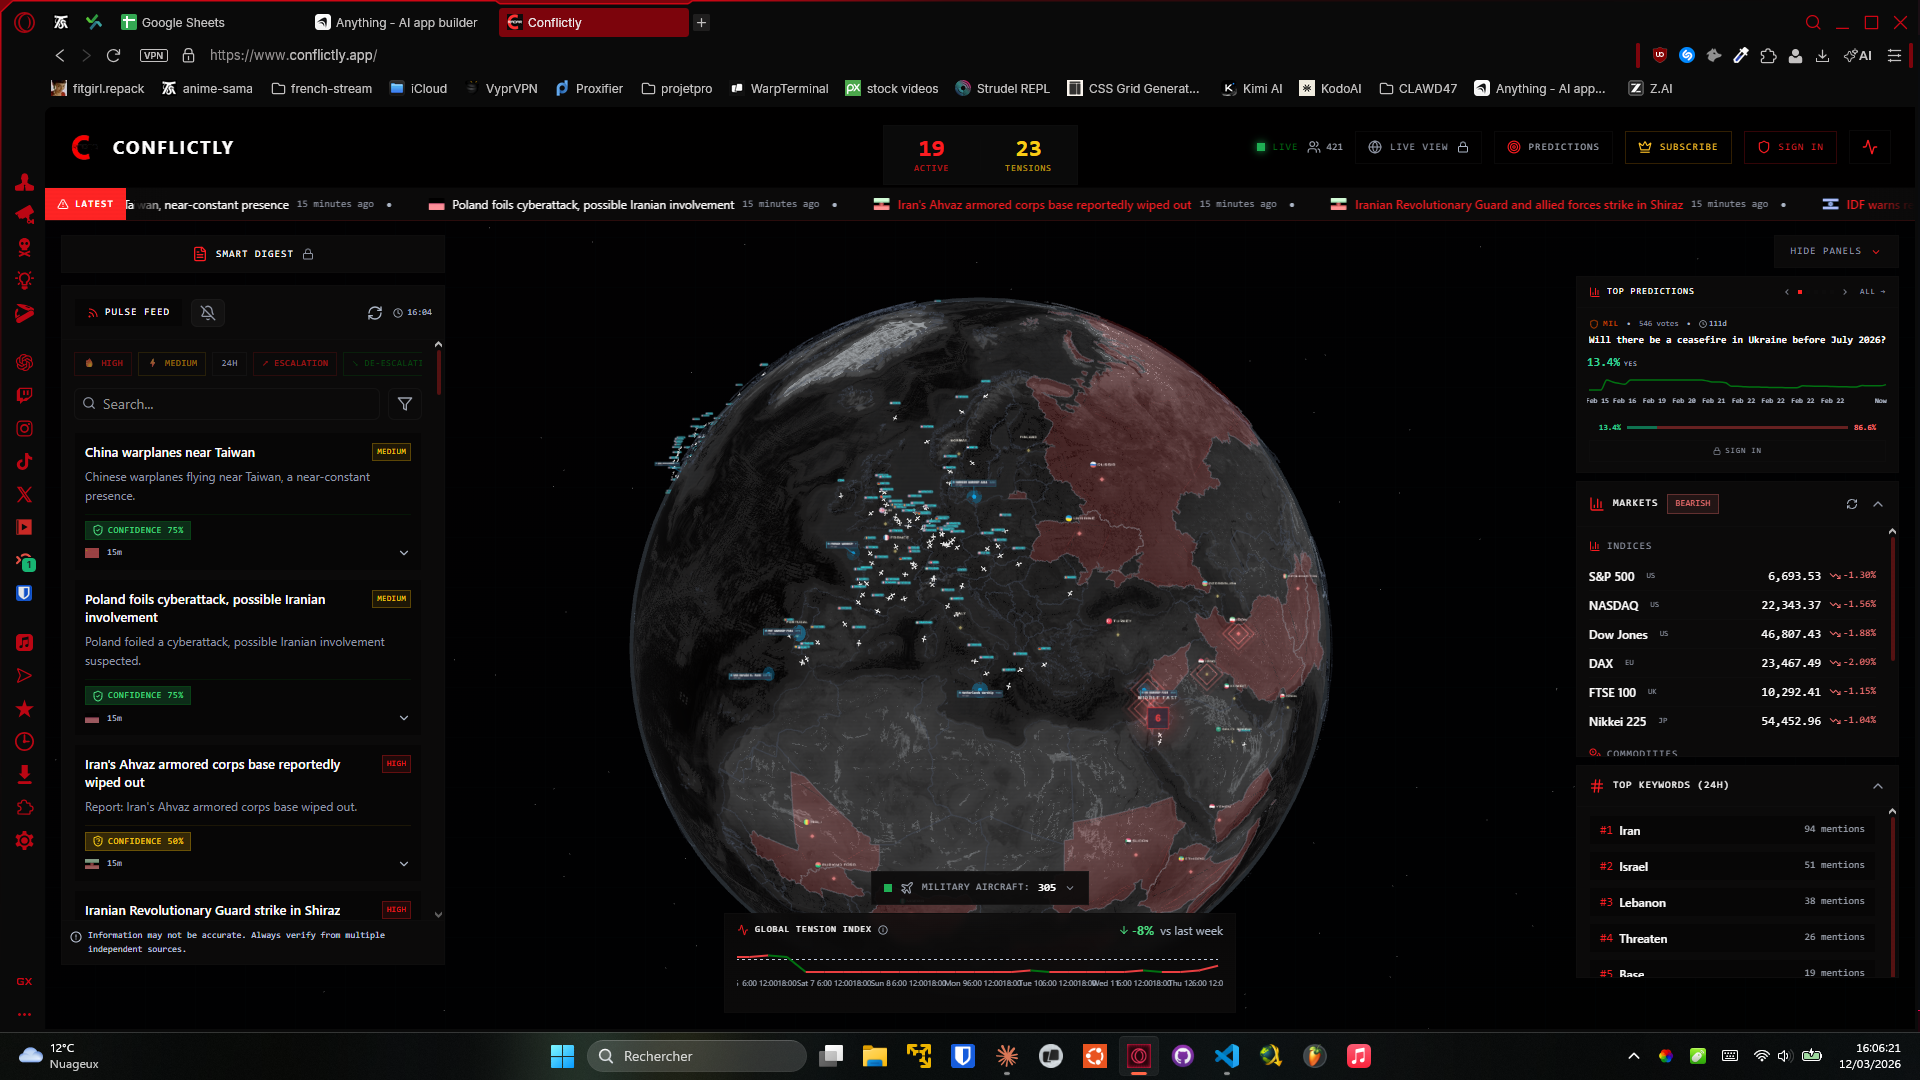
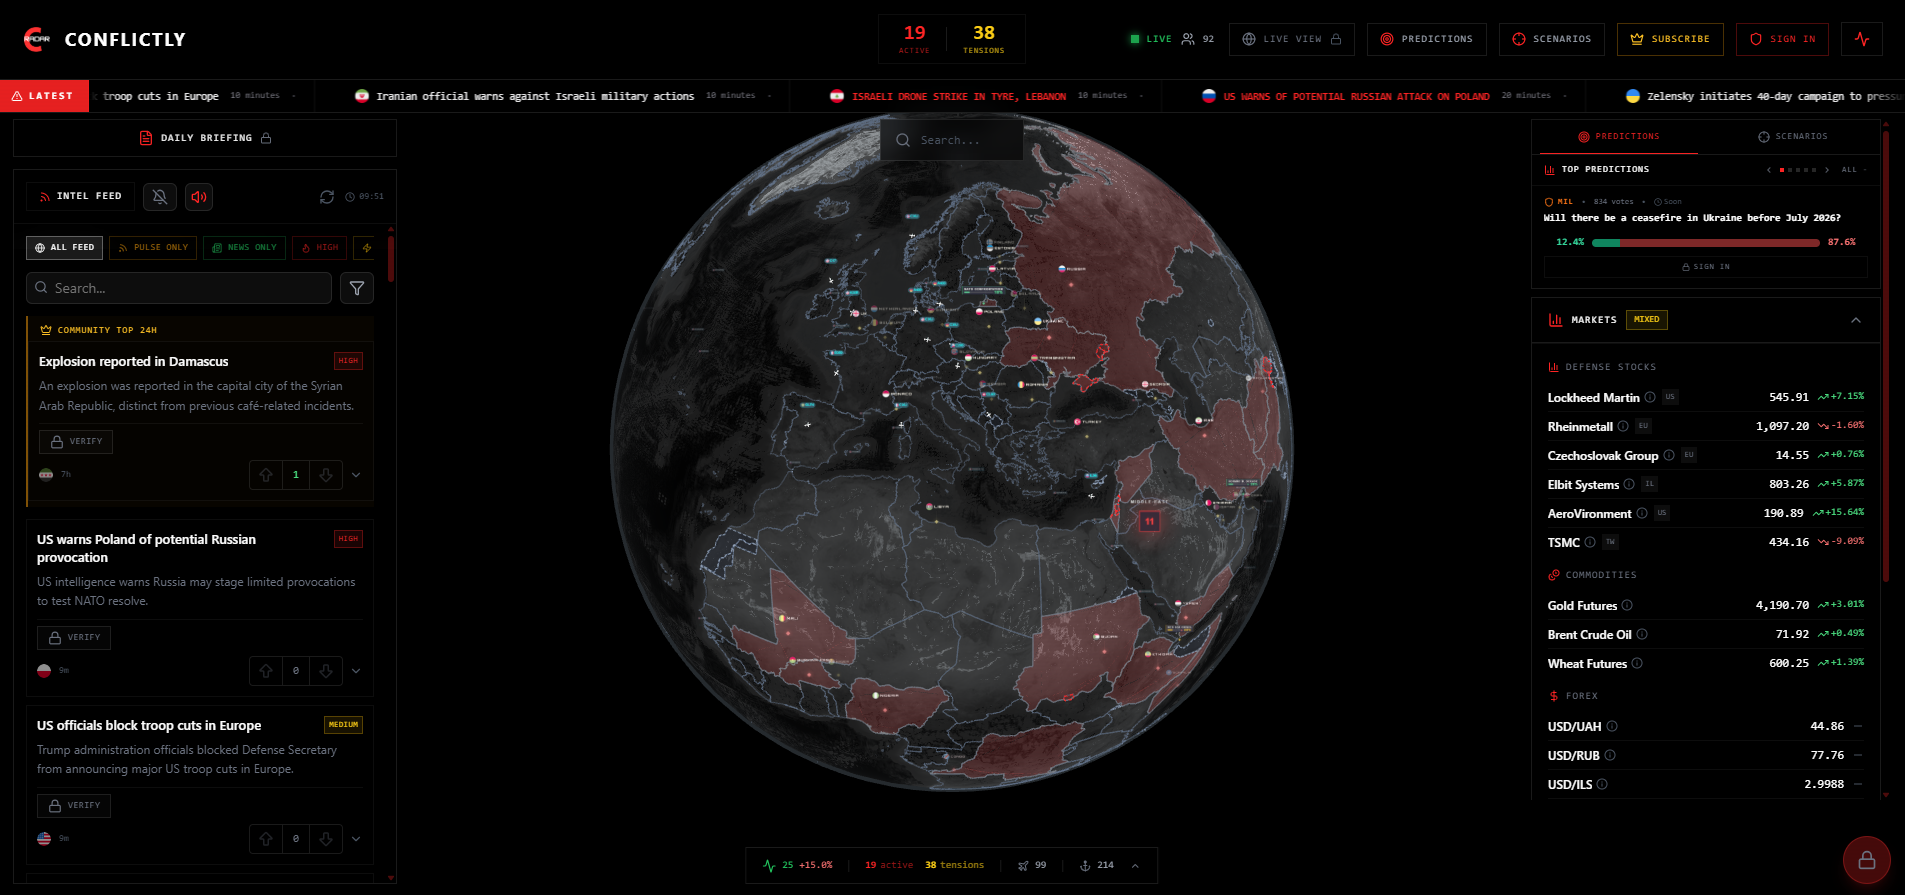
feat: fit

diff --git a/dossier_orbi7rack.html b/dossier_orbi7rack.html
@@ -453,7 +453,7 @@
 <p>L'idée d'Orbi7rack était née : <strong>suivre ses colis visuellement et en direct, partout à travers le monde, et plus par un enchaînement d'événements ligne par ligne</strong>.</p>
 <h3 id="2-le-globe-comme-interface">2. Le globe comme interface</h3>
 <p>L'inspiration visuelle est venue de sites qui ont eu beaucoup de visibilité et de clones pendant les périodes de conflits du début d'année, notamment <strong>conflicty.app</strong>, qui permettait de visualiser en live sur un globe les zones de tension avec affichage d'événements en modal et d'autres informations (bourse, estimations, paris Polymarket). Un rendu futuriste, presque holographique, qui rendait la recherche d'informations et la compréhensiion du contexte mondial facilement accessible et compréhensible.</p>
-<p>[[CAPTURE_REFERENCE_CONFLICTY — capture ou screenshot de conflicty.app pour comparaison visuelle]]</p>
+<img src="media/screenshots/conflictly.png" alt="Capture d'écran de l'application Conflicty.app" style="max-width: 100%; border-radius: 8px; margin: var(--space-6) 0;" />
 <p>C'est cette vision que j'ai voulu appliquer au suivi de colis : pas une carte 2D statique, mais un globe 3D interactif, avec des arcs lumineux entre les origines et les destinations, des marqueurs pulsants sur les positions en cours, et des imaages de transport (avion, camion, illustration de colis) qui se déplacent en temps réel ou de façon simulée, quand les données en direct sont absentes.</p>
 <hr />
 <h2 id="ii-cahier-des-charges">II. Cahier des Charges</h2>
@@ -685,7 +685,7 @@
 <h2 id="iii-conception-uxui">III. Conception UX/UI</h2>
 <h3 id="1-ui-charte-graphique">1. UI — Charte Graphique</h3>
 <p>Le parti pris visuel est assumé : Orbi7rack n'est pas un tracker de colis classique. C'est une interface inspirée des outils de surveillance et de la science fiction, holographique et futuriste sans perdre en  lisibilité.</p>
-<p>[[CAPTURE_GLOBE_UI — capture de l'interface principale : globe + sidebar]]</p>
+<img src="media/screenshots/interface1.png" alt="Capture d'écran de l'application Conflicty.app" style="max-width: 100%; border-radius: 8px; margin: var(--space-6) 0;" />
 <h4 id="11-palette-de-couleurs">1.1. Palette de couleurs</h4>
 <p>La palette a été pensée autour du globe lui-même, avec deux modes distincts :</p>
 <p><strong>Mode sombre (principal)</strong></p>
@@ -732,6 +732,7 @@
 </tbody>
 </table>
 <p><strong>Mode clair</strong></p>
+<img src="media/screenshots/interface1clear.png" alt="Interface mode clair" style="max-width: 100%; border-radius: 8px; margin: var(--space-6) 0;" />
 <table>
 <thead>
 <tr>
@@ -788,7 +789,7 @@ L'utilisateur clique sur un colis dans la sidebar → la caméra zoome sur la po
 <p><strong>Toggle arc / live</strong><br />
 Un bouton dans la sidebar permet de basculer entre la vue "arc" (trajet origine-destination tracé) et la vue "live" (focus sur la position courante en temps réel). Les deux modes sont disponibles simultanément.</p>
 <h4 id="23-zoning">2.3. Zoning</h4>
-<p>[[CAPTURE_WIREFRAME_LAYOUT — schéma de zoning de la page principale (globe + sidebar + modal)]]</p>
+<img src="media/screenshots/zoning.png" alt="Interface mode clair" style="max-width: 100%; border-radius: 8px; margin: var(--space-6) 0;" />
 <p>L'interface est organisée en trois zones :</p>
 <ul>
 <li><strong>Zone principale</strong> (80-90% de l'écran) : le globe 3D, interactif, toujours visible.</li>
@@ -798,14 +799,17 @@ Un bouton dans la sidebar permet de basculer entre la vue "arc" (trajet origine-
 <hr />
 <h2 id="iv-maquettage">IV. Maquettage</h2>
 <h3 id="1-wireframes">1. Wireframes</h3>
-<p><em>Note : La phase de wireframing classique n'a pas précédé le développement, car la structure de l'interface a été découverte en même temps que les capacités de globe.gl. L'organisation visuelle s'est construite autour des contraintes et des possibilités du rendu WebGL, pas l'inverse. Les captures d'écran ci-dessous montrent le résultat final de cette itération.</em></p>
-<p>[[CAPTURE_GLOBE_DARK — globe en mode sombre avec arcs et sprites actifs]]</p>
-<p>[[CAPTURE_GLOBE_LIGHT — globe en mode clair avec palette satellite]]</p>
-<h3 id="2-maquettes-captures-de-linterface-finale">2. Maquettes (captures de l'interface finale)</h3>
-<p>[[CAPTURE_SIDEBAR_LISTE — sidebar avec liste de colis et badges de statut]]</p>
-<p>[[CAPTURE_MODAL_DETAIL — modal de détail d'un colis avec timeline d'événements]]</p>
-<p>[[CAPTURE_FORM_AJOUT — formulaire d'ajout d'un colis]]</p>
-<p>[[CAPTURE_MOBILE_RESPONSIVE — vue mobile avec sidebar collapsible]]</p>
+<p><em>Note : La phase de wireframing classique n'a pas précédé le développement, car la structure de l'interface a été découverte en même temps que les capacités de globe.gl. L'organisation visuelle s'est construite autour des contraintes et des possibilités du rendu WebGL, pas l'inverse.</em></p>
+<h3 id="2-maquettes">2. Maquettes (mode sombre et clair)</h3>
+<img src="media/screenshots/login.png" alt="Interface mode clair" style="max-width: 100%; border-radius: 8px; margin: var(--space-6) 0;" />
+<img src="media/screenshots/loginclear.png" alt="Interface mode clair" style="max-width: 100%; border-radius: 8px; margin: var(--space-6) 0;" />
+<img src="media/screenshots/maquette.png" alt="Interface mode clair" style="max-width: 100%; border-radius: 8px; margin: var(--space-6) 0;" />
+<img src="media/screenshots/maquetteclear.png" alt="Interface mode clair" style="max-width: 100%; border-radius: 8px; margin: var(--space-6) 0;" />
+<h3 id="3-captures-de-linterface-finale">3. Captures de l'interface finale</h3>
+<img src="media/screenshots/finalclear.png" alt="Interface mode clair" style="max-width: 100%; border-radius: 8px; margin: var(--space-6) 0;" />
+<img src="media/screenshots/finalclearmodal.png" alt="Interface mode clair" style="max-width: 100%; border-radius: 8px; margin: var(--space-6) 0;" />
+<img src="media/screenshots/addparcel.png" alt="Interface mode clair" style="max-width: 100%; border-radius: 8px; margin: var(--space-6) 0;" />
+<img src="media/screenshots/mobile.png" alt="Interface mode clair" style="max-width: 70%; border-radius: 8px; margin: var(--space-6) 0;" />
 <hr />
 <h2 id="v-gestion-de-projet">V. Gestion de Projet</h2>
 <h3 id="1-organisation-de-travail">1. Organisation de travail</h3>
@@ -988,10 +992,10 @@ Un bouton dans la sidebar permet de basculer entre la vue "arc" (trajet origine-
 <h4 id="11-interfaces-utilisateur-statiques-web-et-web-mobile">1.1. Interfaces Utilisateur Statiques — Web et Web Mobile</h4>
 <p><strong>Page de connexion / inscription</strong></p>
 <p>Une interface épurée avec formulaire d'authentification, gestion des erreurs inline, et redirection vers la page principale après succès. Design cohérent avec la charte globale du projet.</p>
-<p>[[CAPTURE_LOGIN_PAGE — page de connexion]]</p>
+<img src="media/screenshots/loginfinal.png" alt="Interface mode clair" style="max-width: 100%; border-radius: 8px; margin: var(--space-6) 0;" />
 <p><strong>Page principale (globe + sidebar)</strong></p>
 <p>L'interface principale est une vue quasi plein-écran avec le globe 3D à droite et la sidebar à gauche. La sidebar liste les colis avec leurs badges de statut colorés (couleurs sémantiques : cyan pour "in_transit", vert pour "delivered", ambre pour "pending"). Un bouton flottant permet d'ajouter un colis.</p>
-<p>[[CAPTURE_SIDEBAR_STATUTS — sidebar avec badges de statut colorés]]</p>
+<img src="media/screenshots/final.png" alt="Interface mode clair" style="max-width: 100%; border-radius: 8px; margin: var(--space-6) 0;" />
 <h4 id="12-interfaces-utilisateur-dynamiques-web-et-web-mobile">1.2. Interfaces Utilisateur Dynamiques — Web et Web Mobile</h4>
 <p><strong>Globe 3D interactif</strong></p>
 <p>Le globe est le cœur de l'application. Il est chargé en <code>dynamic import</code> avec <code>ssr: false</code> car WebGL nécessite le DOM navigateur. Il réagit en temps réel aux données des colis : ajout d'un colis → apparition de son arc et de son marqueur en quelques secondes.</p>
@@ -1000,18 +1004,18 @@ Un bouton dans la sidebar permet de basculer entre la vue "arc" (trajet origine-
 - <strong>Arcs</strong> : trajet entre l'origine et la destination, animés en pointillés.<br />
 - <strong>Rings</strong> : animation pulsante sous le marqueur pour les colis "in_transit" et "out_for_delivery".<br />
 - <strong>Transport</strong> (sprites Three.js) : icône avion ou camion positionnée sur l'arc et orientée selon le cap de vol.</p>
-<p>[[CAPTURE_GLOBE_ARCS — globe avec arcs et sprites actifs, mode sombre]]</p>
+<img src="media/screenshots/globe.png" alt="Interface mode clair" style="max-width: 100%; border-radius: 8px; margin: var(--space-6) 0;" />
 <p><strong>Toggle arc / live et changement de thème</strong></p>
 <p>Deux contrôles dans la barre supérieure permettent de basculer entre le mode arc (trajet complet) et le mode live (focus sur la position courante), et de switcher entre dark et light mode. Le changement de thème reconfigure l'ensemble des matériaux Three.js en temps réel.</p>
 <p><strong>Modal de détail</strong></p>
 <p>Au clic sur un colis dans la sidebar, la caméra du globe effectue un zoom fluide (POV animé sur 1,2 seconde) vers la position courante du transport — pas la destination. Le modal s'ouvre simultanément avec la timeline des événements, les coordonnées, la source de position (live / simulated / centroid) et le numéro de vol si disponible.</p>
-<p>[[CAPTURE_MODAL_TIMELINE — modal ouvert avec timeline d'événements]]</p>
+<img src="media/screenshots/modal.png" alt="Interface mode clair" style="max-width: 100%; border-radius: 8px; margin: var(--space-6) 0;" />
 <h4 id="13-logique-serveur-et-base-de-donnees">1.3. Logique Serveur et Base de Données</h4>
 <p><strong>Modèles de données</strong></p>
 <p>Les deux modèles principaux sont <code>Parcel</code> et <code>TrackingEvent</code>.</p>
 <p><code>Parcel</code> stocke les informations du colis : numéro de tracking, statut, pays d'origine, pays de destination, numéro de vol, position live persistée (<code>last_live_lat</code>, <code>last_live_lng</code>, <code>last_live_at</code>), coordonnées géocodées de l'origine et de la destination.</p>
 <p><code>TrackingEvent</code> stocke chaque événement de suivi : timestamp, description, location, coordonnées GPS géocodées, mode de transport détecté (<code>air/road/sea/unknown</code>), numéro de vol associé, et données de simulation (<code>estimated_departure</code>, <code>estimated_arrival</code>, <code>simulated: bool</code>).</p>
-<p>[[CAPTURE_SCHEMA_MCD_MLD — schéma MCD/MLD de la base de données]]</p>
+<img src="media/screenshots/mcd.png" alt="Interface mode clair" style="max-width: 100%; border-radius: 8px; margin: var(--space-6) 0;" />
 <p><strong>Pipeline de synchronisation</strong></p>
 <p>Quand un utilisateur ajoute un colis, le pipeline se déclenche :</p>
 <ol>
@@ -1103,10 +1107,8 @@ Un bouton dans la sidebar permet de basculer entre la vue "arc" (trajet origine-
 <li>Contraste vérifié sur les badges de statut en dark et light mode.</li>
 <li>Navigation clavier complète sur la sidebar et le modal (focus visible).</li>
 <li>Attributs <code>alt</code> sur toutes les images fonctionnelles.</li>
-<li>État vide animé sur la sidebar (empty state avec illustration) pour guider l'utilisateur sans colis.</li>
-<li>Skeleton loader au démarrage du globe pendant le chargement des données.</li>
+<li>État vide affiché sur la sidebar (empty state avec illustration) pour guider l'utilisateur sans colis.</li>
 </ul>
-<p>[[CAPTURE_EMPTY_STATE — sidebar empty state animé]]</p>
 <hr />
 <h2 id="vii-retour-dexperience">VII. Retour d'Expérience</h2>
 <h3 id="1-veille-et-difficultes-rencontrees">1. Veille et difficultés rencontrées</h3>
@@ -1147,9 +1149,13 @@ Un bouton dans la sidebar permet de basculer entre la vue "arc" (trajet origine-
 <hr />
 <h2 id="viii-annexes">VIII. Annexes</h2>
 <h3 id="1-mcd-modele-conceptuel-de-donnees">1. MCD (Modèle Conceptuel de Données)</h3>
-<p>[[CAPTURE_MCD — schéma MCD du projet Orbi7rack]]</p>
+<img src="media/screenshots/mcd.png" alt="Interface mode clair" style="max-width: 100%; border-radius: 8px; margin: var(--space-6) 0;" />
 <h3 id="2-mld-modele-logique-de-donnees">2. MLD (Modèle Logique de Données)</h3>
-<p>[[CAPTURE_MLD — schéma MLD / DDL des tables PostgreSQL]]</p>
+<p>users (<u>id</u>, username, email, password, first_name, last_name, avatar, is_staff, is_active, date_joined, created_at) <br><br>
+
+parcels (<u>id</u>, tracking_number, carrier, description, origin_country, dest_country, status, #owner_id → users.id, flight_number, last_live_lat, last_live_lng, last_live_at, last_synced_at, created_at, updated_at) <br><br>
+
+tracking_events (<u>id</u>, #parcel_id → parcels.id, timestamp, location, latitude, longitude, status, description, raw_data, flight_iata, transport_mode, estimated_departure, estimated_arrival, simulated, created_at)</p>
 <h3 id="3-dictionnaire-de-donnees">3. Dictionnaire de données</h3>
 <table>
 <thead>

diff --git a/presentation.html b/presentation.html
@@ -431,7 +431,6 @@
                         <span class="code-chip">globe.gl</span>
                         <span class="code-chip">Three.js + postprocessing</span>
                         <span class="code-chip">Tailwind CSS</span>
-                        <span class="code-chip">Lucide React</span>
                     </div>
                 </div>
                 <div class="glass-card reveal">
@@ -441,7 +440,6 @@
                         <span class="code-chip">SimpleJWT</span>
                         <span class="code-chip">PostgreSQL</span>
                         <span class="code-chip">Celery + Redis</span>
-                        <span class="code-chip">drf-spectacular</span>
                         <span class="code-chip">geopy</span>
                     </div>
                 </div>
@@ -450,7 +448,6 @@
                     <div style="display:flex;flex-direction:column;gap:0.4rem;">
                         <span class="code-chip">WSL2</span>
                         <span class="code-chip">Docker Compose</span>
-                        <span class="code-chip">nginx + Gunicorn</span>
                         <span class="code-chip">GitHub Actions</span>
                         <span class="code-chip">Makefile</span>
                         <span class="code-chip">pytest</span>
@@ -901,7 +898,6 @@
                     <ul style="color:#bb8870;font-size:0.75rem;line-height:1.8;list-style:none;padding:0;">
                         <li>Wireframe avant le code</li>
                         <li>Tests écrits dès le début</li>
-                        <li>Stratégie de branches dès le départ</li>
                         <li>Découpage en services dès la conception</li>
                     </ul>
                 </div>